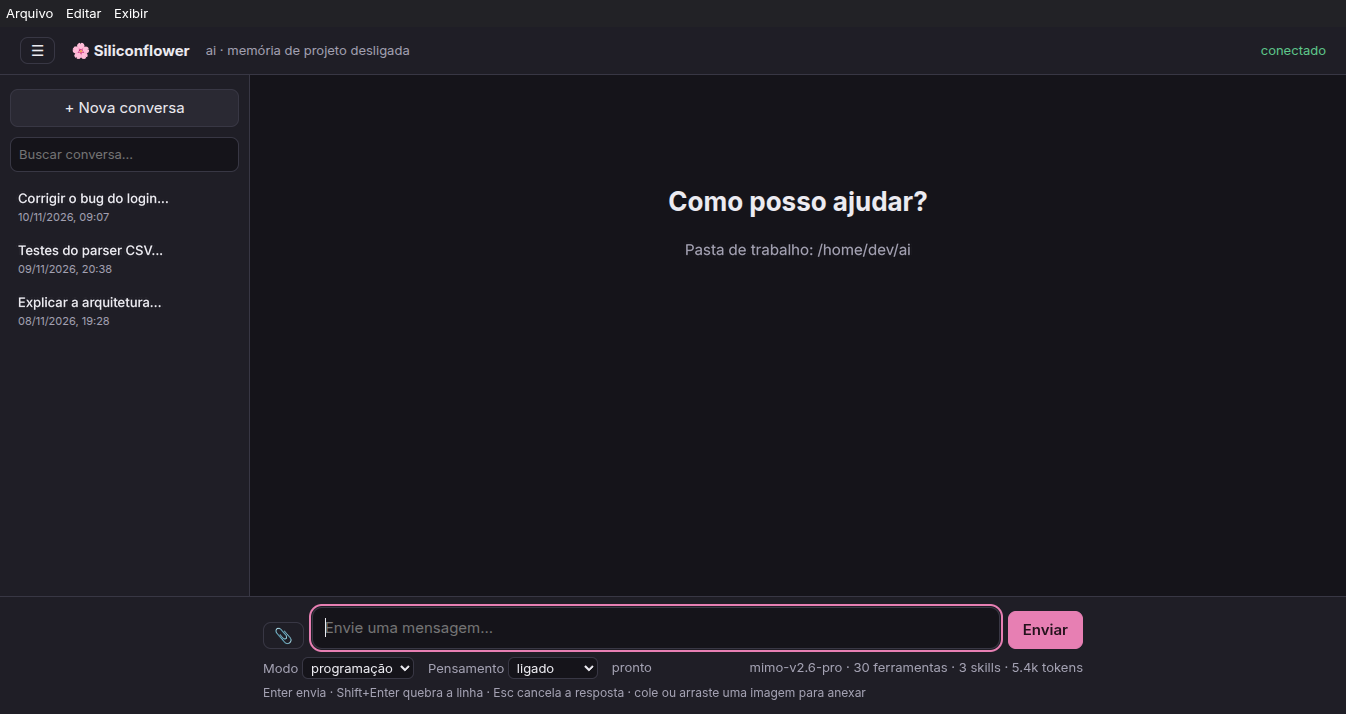
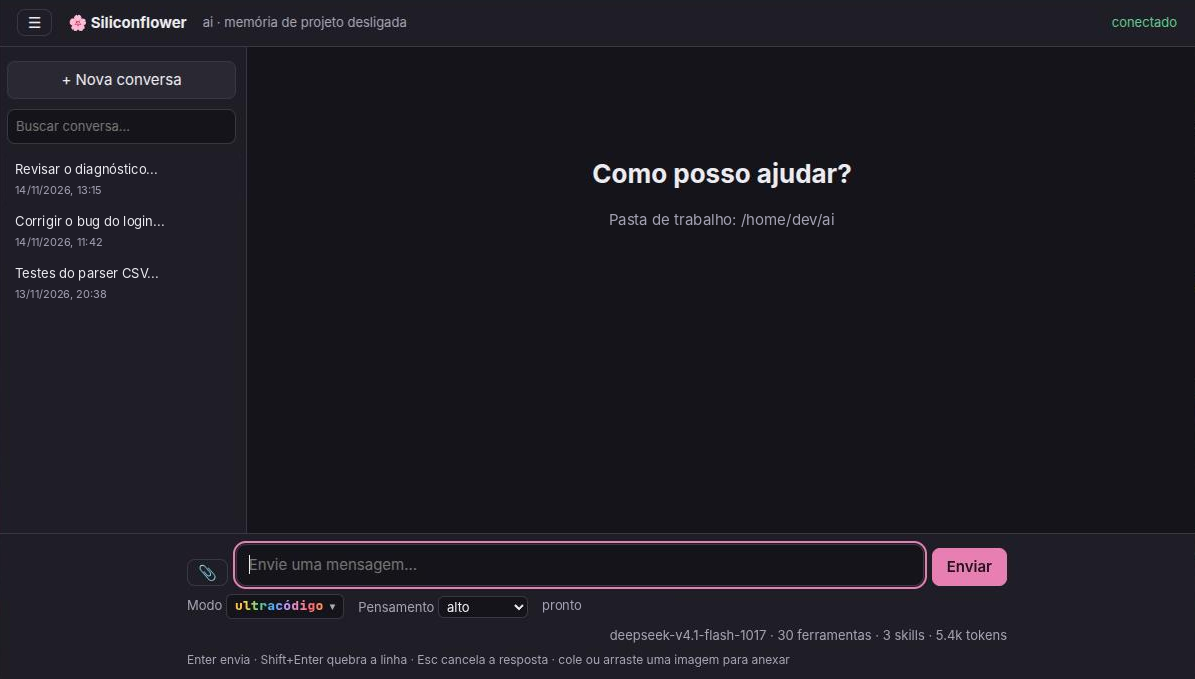
feat: Siliconflower v0.14.0 na página e no site
- siliconflower/: versão 0.14.0, links do agente portátil com os nomes
  novos (siliconflower-portatil-*), seção Novidades (0.11 a 0.14),
  card do Diagnóstico, modo ultracódigo e pensamento até ultra,
  dica "qual baixar" e nova captura da tela de conversa
- index.html, llms.txt, llms-full.txt: versão e recursos sincronizados
- sitemap.xml: lastmod atualizado

diff --git a/siliconflower/index.html b/siliconflower/index.html
@@ -4,7 +4,7 @@
   <meta charset="utf-8">
   <meta name="viewport" content="width=device-width, initial-scale=1">
   <title>Siliconflower — Agente de IA que programa com você</title>
-  <meta name="description" content="Siliconflower é um agente de IA open source para programar no Windows e no Linux: app de desktop, 30 ferramentas nativas, subagentes, memória por projeto, MCP e qualquer API compatível com a da OpenAI.">
+  <meta name="description" content="Siliconflower é um agente de IA open source para programar no Windows e no Linux: app de desktop, 30 ferramentas nativas, subagentes, memória por projeto, diagnóstico embutido, MCP e qualquer API compatível com a da OpenAI.">
   <meta name="author" content="1155dosilicon">
   <meta name="theme-color" content="#15141a">
   <meta name="color-scheme" content="dark">
@@ -35,7 +35,7 @@
     "@context": "https://schema.org",
     "@type": "SoftwareApplication",
     "name": "Siliconflower",
-    "softwareVersion": "0.9.1",
+    "softwareVersion": "0.14.0",
     "applicationCategory": "DeveloperApplication",
     "operatingSystem": "Windows 10, Windows 11, Linux x86_64",
     "description": "Agente de IA para desenvolvimento de software em Windows e Linux, como app de desktop ou interface no navegador, com 30 ferramentas nativas, subagentes, memória por projeto, Git worktrees, RepoMap e MCP.",
@@ -189,6 +189,26 @@
     .tool-group ul { display: flex; flex-wrap: wrap; gap: 6px; }
     .tool-group li { padding: 4px 9px; border-radius: 6px; color: var(--text-2); background: var(--bg); font: 400 12.5px var(--mono); }
 
+    /* Novidades */
+    .lead a { color: var(--text-2); text-underline-offset: 3px; }
+    .lead a:hover { color: var(--accent); }
+    .releases { display: grid; gap: 0; border-left: 1px solid var(--border); margin-left: 6px; }
+    .release { position: relative; display: grid; grid-template-columns: 170px 1fr; gap: 8px 32px; padding: 0 0 34px 30px; }
+    .release:last-child { padding-bottom: 0; }
+    .release::before { position: absolute; top: 6px; left: -6px; width: 11px; height: 11px; content: ""; border: 2px solid var(--border); border-radius: 50%; background: var(--bg); }
+    .release.latest::before { border-color: var(--accent); background: var(--accent); box-shadow: 0 0 0 5px var(--accent-soft); }
+    .rel-meta { display: flex; flex-direction: column; gap: 2px; }
+    .rel-meta a { color: var(--text); font: 600 15px var(--mono); text-decoration: none; }
+    .rel-meta a:hover { color: var(--accent); }
+    .release.latest .rel-meta a { color: var(--accent); }
+    .rel-meta time { color: var(--muted); font-size: 13px; }
+    .release h3 { margin-bottom: 10px; font-size: 1.12rem; font-weight: 650; letter-spacing: -.015em; }
+    .release ul { display: grid; gap: 6px; }
+    .release li { position: relative; padding-left: 18px; color: var(--muted); font-size: .95rem; }
+    .release li::before { position: absolute; left: 2px; top: .68em; width: 6px; height: 6px; content: ""; border-radius: 50%; background: var(--accent-soft); box-shadow: inset 0 0 0 1px var(--accent); }
+    .rainbow { background: linear-gradient(90deg, #ff6b9d, #f7d774, #5fc98c, #6bb8ff, #b48cff, #ff6b9d); background-size: 200% 100%; -webkit-background-clip: text; background-clip: text; color: transparent; animation: rainbow 6s linear infinite; }
+    @keyframes rainbow { to { background-position: 200% 0; } }
+
     /* Download */
     .downloads { display: grid; grid-template-columns: repeat(2, 1fr); gap: 16px; }
     .dl { display: flex; flex-direction: column; padding: clamp(26px, 4vw, 36px); border: 1px solid var(--border); border-radius: 18px; background: linear-gradient(160deg, #22212b, var(--surface) 60%); }
@@ -247,6 +267,8 @@
       .actions .btn { flex: 1 1 100%; }
       .features, .tools, .downloads { grid-template-columns: 1fr; }
       .facts li { padding: 20px 14px; }
+      .release { grid-template-columns: 1fr; padding-left: 22px; }
+      .rel-meta { flex-direction: row; align-items: baseline; gap: 10px; }
       .window-bar { height: 26px; }
       .window-bar i { width: 8px; height: 8px; }
       .window-bar span { display: none; }
@@ -274,11 +296,12 @@
       <a class="brand" href="#top" aria-label="Siliconflower — início">
         <svg class="flower" width="28" height="28" aria-hidden="true"><use href="#flower"/></svg>
         Siliconflower
-        <span class="version" data-sf-version>v0.9.1</span>
+        <span class="version" data-sf-version>v0.14.0</span>
       </a>
       <div class="nav-links">
         <a href="#recursos">Recursos</a>
         <a href="#ferramentas">Ferramentas</a>
+        <a href="#novidades">Novidades</a>
         <a href="https://github.com/1155dosilicon/siliconflower" target="_blank" rel="noopener">GitHub</a>
         <a class="btn-sm" href="#download">Baixar</a>
       </div>
@@ -289,7 +312,7 @@
     <section class="hero" id="top">
       <div class="wrap">
         <svg class="flower" width="76" height="76" aria-hidden="true"><use href="#flower"/></svg>
-        <a class="pill" href="https://github.com/1155dosilicon/siliconflower/releases/latest" target="_blank" rel="noopener" data-sf-release-link><b>novo</b> <span data-sf-version-long>Versão 0.9.1</span> · veja as novidades →</a>
+        <a class="pill" href="#novidades"><b>novo</b> <span data-sf-version-long>Versão 0.14.0</span> · veja as novidades →</a>
         <h1>Um agente de IA que <em>programa com você.</em></h1>
         <p class="hero-copy">O Siliconflower lê o seu projeto, edita arquivos, roda comandos e delega tarefas a subagentes, tudo num app de desktop para Windows e Linux. Você escolhe o modelo e vê cada passo na tela.</p>
         <div class="actions">
@@ -303,7 +326,7 @@
             <div class="window-bar" aria-hidden="true"><i></i><i></i><i></i><span>Siliconflower</span></div>
             <picture>
               <source srcset="tela-conversa.webp" type="image/webp">
-              <img src="tela-conversa.png" width="1346" height="714" alt="Janela do Siliconflower: lista de conversas à esquerda, a pergunta “Como posso ajudar?” no centro e, embaixo, a caixa de mensagem com os seletores de modo e de pensamento" fetchpriority="high">
+              <img src="tela-conversa.png" width="1195" height="679" alt="Janela do Siliconflower: lista de conversas à esquerda, a pergunta “Como posso ajudar?” no centro e, embaixo, a caixa de mensagem com os seletores de modo e de pensamento" fetchpriority="high">
             </picture>
           </div>
         </figure>
@@ -345,7 +368,7 @@
           <article class="feature">
             <div class="ico"><svg viewBox="0 0 24 24" fill="none" stroke="currentColor" stroke-width="1.8" stroke-linecap="round" stroke-linejoin="round" aria-hidden="true"><path d="M4 7h10M4 12h16M4 17h7"/><circle cx="18" cy="7" r="2"/><circle cx="14" cy="17" r="2"/></svg></div>
             <h3>Modos e raciocínio</h3>
-            <p>Modos <code>programação</code>, <code>sistema</code> e <code>plano</code> (só leitura) e nível de pensamento, escolhidos direto na interface.</p>
+            <p>Modos <code class="rainbow">ultracódigo</code>, <code>sistema</code> e <code>plano</code> (só leitura) e pensamento de <code>none</code> a <code>ultra</code>, escolhidos direto na interface.</p>
           </article>
           <article class="feature">
             <div class="ico"><svg viewBox="0 0 24 24" fill="none" stroke="currentColor" stroke-width="1.8" stroke-linecap="round" stroke-linejoin="round" aria-hidden="true"><circle cx="6" cy="6" r="2.5"/><circle cx="6" cy="18" r="2.5"/><circle cx="18" cy="9" r="2.5"/><path d="M6 8.5v7M18 11.5c0 3-3 4-9.5 5.5"/></svg></div>
@@ -365,12 +388,12 @@
           <article class="feature">
             <div class="ico"><svg viewBox="0 0 24 24" fill="none" stroke="currentColor" stroke-width="1.8" stroke-linecap="round" stroke-linejoin="round" aria-hidden="true"><circle cx="11" cy="11" r="6.5"/><path d="m20 20-4.4-4.4"/></svg></div>
             <h3>Conversas organizadas</h3>
-            <p>Busque e renomeie conversas, edite e reenvie a última mensagem, e encerre tarefas em background com um clique.</p>
+            <p>Busque e renomeie conversas, edite e reenvie a última mensagem, e encerre tarefas em background com um clique. Tarefas longas vão até o fim, sem pedir <code>continue</code>.</p>
           </article>
           <article class="feature">
-            <div class="ico"><svg viewBox="0 0 24 24" fill="none" stroke="currentColor" stroke-width="1.8" stroke-linecap="round" stroke-linejoin="round" aria-hidden="true"><path d="M12 3 4 7v10l8 4 8-4V7zM4 7l8 4 8-4M12 11v10"/></svg></div>
-            <h3>Binário único</h3>
-            <p>Compilado com o Bun: o app já traz o agente, sem precisar instalar Node.js nem Bun.</p>
+            <div class="ico"><svg viewBox="0 0 24 24" fill="none" stroke="currentColor" stroke-width="1.8" stroke-linecap="round" stroke-linejoin="round" aria-hidden="true"><path d="M3 12h4l2-5 4 10 2-5h6"/></svg></div>
+            <h3>Diagnóstico embutido</h3>
+            <p>O botão 🩺 confere configuração, provedor, MCP, shell, git e conversas, e diz como resolver cada problema. No terminal: <code>siliconflower doctor</code>.</p>
           </article>
         </div>
       </div>
@@ -433,21 +456,76 @@
       </div>
     </section>
 
+    <section class="section" id="novidades">
+      <div class="wrap">
+        <header class="head">
+          <p class="kicker">novidades</p>
+          <h2>Uma versão nova quase todo dia.</h2>
+          <p class="lead">O que mudou nas últimas releases. A lista completa está no <a href="https://github.com/1155dosilicon/siliconflower/blob/main/CHANGELOG.md" target="_blank" rel="noopener">CHANGELOG</a>.</p>
+        </header>
+        <ol class="releases">
+          <li class="release latest">
+            <div class="rel-meta"><a href="https://github.com/1155dosilicon/siliconflower/releases/tag/v0.14.0" target="_blank" rel="noopener">v0.14.0</a><time datetime="2026-11-14">14 nov 2026</time></div>
+            <div>
+              <h3>Sem loops, sem quedas</h3>
+              <ul>
+                <li>A cada 150 passos numa mesma resposta, a interface pergunta se continua (<code>askAfterSteps</code>).</li>
+                <li>Chamadas idênticas repetidas fazem o modelo mudar de abordagem.</li>
+                <li>Conexão perdida no meio da resposta é repetida sozinha, sem encerrar o turno.</li>
+                <li>A compactação não corta mais resultados que o modelo ainda não leu.</li>
+              </ul>
+            </div>
+          </li>
+          <li class="release">
+            <div class="rel-meta"><a href="https://github.com/1155dosilicon/siliconflower/releases/tag/v0.13.0" target="_blank" rel="noopener">v0.13.0</a><time datetime="2026-11-13">13 nov 2026</time></div>
+            <div>
+              <h3>Diagnóstico na tela inicial</h3>
+              <ul>
+                <li>O 🩺 funciona antes de abrir uma pasta e confere todos os projetos recentes de uma vez.</li>
+                <li><code>siliconflower doctor --json</code> e <code>--projects</code>.</li>
+              </ul>
+            </div>
+          </li>
+          <li class="release">
+            <div class="rel-meta"><a href="https://github.com/1155dosilicon/siliconflower/releases/tag/v0.12.0" target="_blank" rel="noopener">v0.12.0</a><time datetime="2026-11-13">13 nov 2026</time></div>
+            <div>
+              <h3>🩺 Diagnóstico</h3>
+              <ul>
+                <li>Confere configuração, provedor, MCP, shell, git, hooks e conversas, com <b>Corrigir o que der</b>.</li>
+                <li>Fim do limite de 50 passos por mensagem.</li>
+              </ul>
+            </div>
+          </li>
+          <li class="release">
+            <div class="rel-meta"><a href="https://github.com/1155dosilicon/siliconflower/releases/tag/v0.11.0" target="_blank" rel="noopener">v0.11.0</a><time datetime="2026-11-13">13 nov 2026</time></div>
+            <div>
+              <h3>Pensamento max e ultra</h3>
+              <ul>
+                <li>Novos níveis de pensamento; se o provedor recusar, o pedido segue com <code>high</code>.</li>
+                <li>A configuração não vem mais com um provedor pré-escolhido.</li>
+                <li>Agente portátil com nome próprio, para não confundir com o instalador.</li>
+              </ul>
+            </div>
+          </li>
+        </ol>
+      </div>
+    </section>
+
     <section class="section" id="download">
       <div class="wrap">
         <header class="head center">
-          <p class="kicker">download · <span data-sf-version>v0.9.1</span></p>
+          <p class="kicker">download · <span data-sf-version>v0.14.0</span></p>
           <h2>Baixe e comece agora.</h2>
-          <p class="lead">Grátis e de código aberto. Na primeira vez o app pede provedor, chave e modelo.</p>
+          <p class="lead">Grátis e de código aberto. O app já traz o agente, sem precisar de Node.js nem Bun. O agente portátil é só o binário: <code>siliconflower gui</code> abre a interface no navegador.</p>
         </header>
 
         <div class="downloads">
           <article class="dl">
             <div class="dl-head"><svg aria-hidden="true"><use href="#i-win"/></svg><h3>Windows</h3></div>
-            <p>Windows 10 ou 11 (x64). Não pede administrador.</p>
-            <a class="btn primary" data-asset="^Siliconflower-Setup-.*\.exe$" href="https://github.com/1155dosilicon/siliconflower/releases/download/v0.9.1/Siliconflower-Setup-0.9.1.exe"><span>Baixar instalador</span><small>.exe</small></a>
+            <p>Windows 10 ou 11 (x64). Não pede administrador. <b>Se não sabe qual baixar, é o instalador.</b></p>
+            <a class="btn primary" data-asset="^Siliconflower-Setup-.*\.exe$" href="https://github.com/1155dosilicon/siliconflower/releases/download/v0.14.0/Siliconflower-Setup-0.14.0.exe"><span>Baixar instalador</span><small>.exe</small></a>
             <div class="dl-more">
-              <a data-asset="^siliconflower\.exe$" href="https://github.com/1155dosilicon/siliconflower/releases/download/v0.9.1/siliconflower.exe"><span>Agente avulso, sem o app</span><span>siliconflower.exe</span></a>
+              <a data-asset="^siliconflower-portatil-windows-x64\.exe$" href="https://github.com/1155dosilicon/siliconflower/releases/download/v0.14.0/siliconflower-portatil-windows-x64.exe"><span>Agente portátil, sem instalar</span><span>portatil-windows-x64.exe</span></a>
             </div>
             <p class="dl-note">O instalador não é assinado: se o SmartScreen avisar, clique em <b>Mais informações</b> e depois em <b>Executar assim mesmo</b>.</p>
           </article>
@@ -455,11 +533,11 @@
           <article class="dl">
             <div class="dl-head"><svg aria-hidden="true"><use href="#i-linux"/></svg><h3>Linux</h3></div>
             <p>x86_64 · Ubuntu 18.04, Debian 10, Fedora 28 ou mais novas.</p>
-            <a class="btn primary" data-asset="-amd64\.deb$" href="https://github.com/1155dosilicon/siliconflower/releases/download/v0.9.1/Siliconflower-0.9.1-amd64.deb"><span>Baixar para Debian/Ubuntu</span><small>.deb</small></a>
+            <a class="btn primary" data-asset="-amd64\.deb$" href="https://github.com/1155dosilicon/siliconflower/releases/download/v0.14.0/Siliconflower-0.14.0-amd64.deb"><span>Baixar para Debian/Ubuntu</span><small>.deb</small></a>
             <div class="dl-more">
-              <a data-asset="\.AppImage$" href="https://github.com/1155dosilicon/siliconflower/releases/download/v0.9.1/Siliconflower-0.9.1-x86_64.AppImage"><span>Qualquer distribuição</span><span>.AppImage</span></a>
-              <a data-asset="^install-appimage\.sh$" href="https://github.com/1155dosilicon/siliconflower/releases/download/v0.9.1/install-appimage.sh"><span>Instalar o AppImage sem senha</span><span>install-appimage.sh</span></a>
-              <a data-asset="^siliconflower-linux-x64$" href="https://github.com/1155dosilicon/siliconflower/releases/download/v0.9.1/siliconflower-linux-x64"><span>Agente avulso, sem o app</span><span>siliconflower-linux-x64</span></a>
+              <a data-asset="\.AppImage$" href="https://github.com/1155dosilicon/siliconflower/releases/download/v0.14.0/Siliconflower-0.14.0-x86_64.AppImage"><span>Qualquer distribuição</span><span>.AppImage</span></a>
+              <a data-asset="^install-appimage\.sh$" href="https://github.com/1155dosilicon/siliconflower/releases/download/v0.14.0/install-appimage.sh"><span>Instalar o AppImage sem senha</span><span>install-appimage.sh</span></a>
+              <a data-asset="^siliconflower-portatil-linux-x64$" href="https://github.com/1155dosilicon/siliconflower/releases/download/v0.14.0/siliconflower-portatil-linux-x64"><span>Agente portátil, sem instalar</span><span>portatil-linux-x64</span></a>
             </div>
             <p class="dl-note">No .deb: <code>sudo apt install ./Siliconflower-*-amd64.deb</code>. Não instale o pacote <code>fuse</code>; o .deb e o script não precisam dele.</p>
           </article>

diff --git a/index.html b/index.html
@@ -301,7 +301,7 @@
 
     <div class="status">
       <div class="status-grid shell">
-        <a class="status-item" href="https://github.com/1155dosilicon/siliconflower/releases" target="_blank" rel="noopener"><span class="status-name">siliconflower</span><strong class="status-value" data-gh-release="1155dosilicon/siliconflower">v0.9.1</strong><span class="arrow out" aria-hidden="true">↗</span></a>
+        <a class="status-item" href="https://github.com/1155dosilicon/siliconflower/releases" target="_blank" rel="noopener"><span class="status-name">siliconflower</span><strong class="status-value" data-gh-release="1155dosilicon/siliconflower">v0.14.0</strong><span class="arrow out" aria-hidden="true">↗</span></a>
         <a class="status-item" href="https://github.com/1155dosilicon/markiidown/releases" target="_blank" rel="noopener"><span class="status-name">markiidown</span><strong class="status-value" data-gh-release="1155dosilicon/markiidown">v1.1.0</strong><span class="arrow out" aria-hidden="true">↗</span></a>
         <a class="status-item" href="https://github.com/1155dosilicon/otimizador-windows" target="_blank" rel="noopener"><span class="status-name">otimizador-windows</span><strong class="status-value">v3.3</strong><span class="arrow out" aria-hidden="true">↗</span></a>
         <a class="status-item" href="https://github.com/1155dosilicon?tab=repositories" target="_blank" rel="noopener"><span class="status-name">repositórios públicos</span><strong class="status-value" data-gh-repos="1155dosilicon">9</strong><span class="arrow out" aria-hidden="true">↗</span></a>
@@ -319,12 +319,12 @@
 
       <article class="featured">
         <div class="featured-copy">
-          <p class="featured-meta"><b>siliconflower</b> <span data-gh-release="1155dosilicon/siliconflower">v0.9.1</span> · licença MIT</p>
+          <p class="featured-meta"><b>siliconflower</b> <span data-gh-release="1155dosilicon/siliconflower">v0.14.0</span> · licença MIT</p>
           <h3>IA agêntica,<br>no seu computador.</h3>
           <dl class="facts">
             <div><dt>interface</dt><dd>app de desktop (uma janela por projeto) ou no navegador com <code>siliconflower gui</code></dd></div>
             <div><dt>ferramentas</dt><dd>30 nativas: arquivos, busca, comandos, web, memória e worktrees</dd></div>
-            <div><dt>agentes</dt><dd>subagentes e tarefas em background</dd></div>
+            <div><dt>agentes</dt><dd>subagentes e tarefas em background, com diagnóstico embutido (🩺)</dd></div>
             <div><dt>modelos</dt><dd>qualquer API compatível com a da OpenAI (SiliconFlow, OpenRouter, OpenAI, Xiaomi MiMo)</dd></div>
             <div><dt>extensões</dt><dd>servidores MCP (stdio ou HTTP), hooks e skills em Markdown</dd></div>
             <div><dt>plataforma</dt><dd>Windows 10/11 e Linux x86_64 (<code>.exe</code>, <code>.deb</code> e AppImage)</dd></div>
@@ -340,7 +340,7 @@
             <span class="app-bar" aria-hidden="true"><i></i><i></i><i></i><span><svg viewBox="0 0 32 32" width="13" height="13"><g fill="#e77fb3"><circle cx="16" cy="7" r="6"/><circle cx="25" cy="13" r="6"/><circle cx="21" cy="24" r="6"/><circle cx="11" cy="24" r="6"/><circle cx="7" cy="13" r="6"/><circle cx="16" cy="16" r="8"/></g><circle cx="16" cy="16" r="4" fill="#f7d774"/></svg>Siliconflower</span></span>
             <picture>
               <source srcset="siliconflower/tela-conversa.webp" type="image/webp">
-              <img src="siliconflower/tela-conversa.png" width="1346" height="714" loading="lazy" alt="Janela do app Siliconflower com a lista de conversas e a caixa de mensagem">
+              <img src="siliconflower/tela-conversa.png" width="1195" height="679" loading="lazy" alt="Janela do app Siliconflower com a lista de conversas e a caixa de mensagem">
             </picture>
           </a>
           <div class="get">
